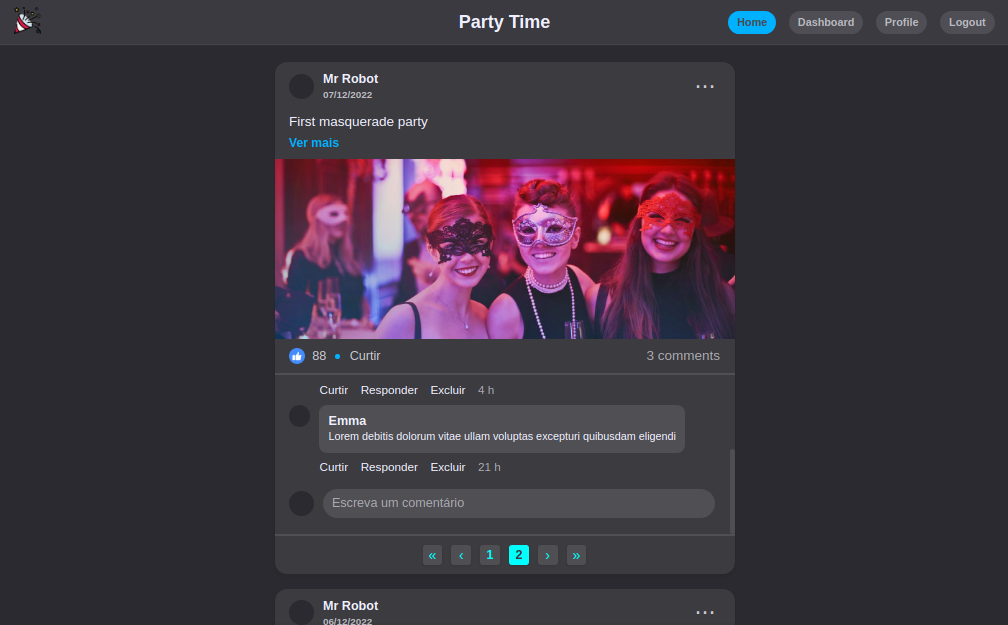
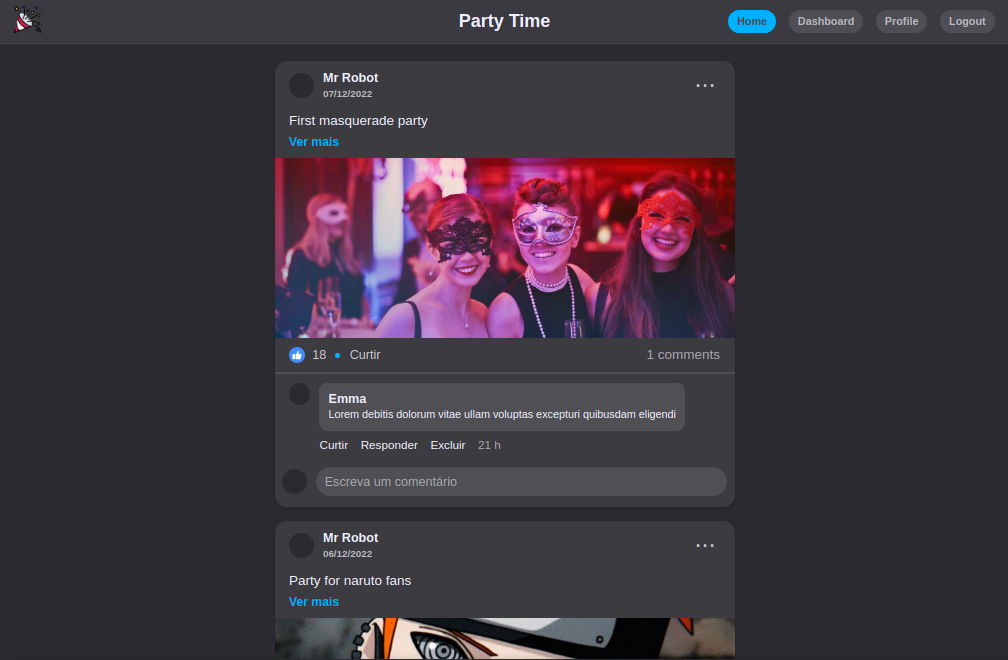
post component improvements and removed comment pagination buttons component

diff --git a/frontend/src/components/publication/Comment.vue b/frontend/src/components/publication/Comment.vue
@@ -1,66 +1,78 @@
 <template>
   <div class="c-comments">
-    <ul class="c-comments__content">
-      <a 
-        v-show="currentsComment.length < comments.length" 
-        class="more-comments" 
-        @click.prevent="seeMoreComments" 
-        href="#">
-        Ver comentários anteriores
-      </a>
-      <li class="c-comment__card" v-for="(comment, index) in currentsComment" :key="index">
+    <ul class="c-comments__content" v-show="comments.length">
+      <div
+        class="c-comments__more_comments"
+        v-show="currentsComment.length < comments.length"
+      >
+        <a @click.prevent="seeMoreComments"> Ver comentários anteriores</a>
+        <p>{{ currentsComment.length }} / {{ comments.length }}</p>
+      </div>
+      <li
+        class="c-comment__card"
+        v-for="(comment, index) in currentsComment"
+        :key="index"
+      >
         <div class="c-comment__card__image"></div>
         <div class="c-comment__card__body">
           <div class="c-comment__card__content">
-            <a>{{comment.name}}</a>
-            <p>{{comment.message}}</p>
+            <a>{{ comment.name }}</a>
+            <p>{{ comment.message }}</p>
           </div>
           <div class="c-comment__card__actions">
             <a href="#">Curtir</a>
             <a href="#">Responder</a>
-            <a href="#" onclick="comments.delete(${i})">Excluir</a>
-            <span>{{comment.date}} h</span>
+            <a href="#" @click.prevent="this.$parent.deleteComment(index)">Excluir</a>
+            <span>{{ comment.date }} h</span>
           </div>
         </div>
       </li>
-      <form @submit.prevent="addComment" class="c-comments__form">
-        <div class="c-comments__form__profile"></div>
-        <div class="c-comments__form__input">
-          <input type="text" name="comment" v-model="comment" id="comment" placeholder="Escreva um comentário">
-        </div>
-      </form>
     </ul>
+    <form @submit.prevent="addComment" class="c-comments__form">
+      <div class="c-comments__form__profile"></div>
+      <div class="c-comments__form__input">
+        <input
+          type="text"
+          name="comment"
+          v-model="comment"
+          id="comment"
+          placeholder="Escreva um comentário"
+        />
+      </div>
+    </form>
   </div>
 </template>
 
 <script>
 export default {
   name: "Comment",
-  data(){
+  data() {
     return {
-      comment: null
-    }
+      comment: null,
+    };
   },
   props: ["comments", "state"],
   computed: {
-    currentsComment(){
-      const { page } = this.state
-      return this.comments.slice(-page)
-    }
+    currentsComment() {
+      const { page } = this.state;
+      console.log(page);
+      return this.comments.slice(-page);
+    },
   },
   methods: {
-    addComment(){
+    addComment() {
       this.$parent.updateComments({
         name: "Mr Robot",
         message: this.comment,
-        date: "13"
-      })
-      this.comment = null
+        date: "13",
+      });
+      this.comment = null;
     },
-    seeMoreComments(){
-      this.$parent.setPage(this.state.page + 2)
-    }
-  }
+    seeMoreComments() {
+      const { page, perPage } = this.state;
+      this.$parent.setPage(page + perPage);
+    },
+  },
 };
 </script>
 
@@ -90,6 +102,18 @@ export default {
 .c-comments__content::-webkit-scrollbar-thumb {
   border-radius: 20px;
   background-color: rgba(255, 255, 255, 0.1);
+}
+
+.c-comments__more_comments {
+  display: flex;
+  align-items: center;
+  justify-content: space-between;
+}
+
+.c-comments__more_comments a,
+.c-comments__more_comments p {
+  font-size: 0.7rem;
+  color: #babac0;
 }
 
 .c-comment__card {
@@ -135,7 +159,7 @@ export default {
   color: #efefff;
   margin-top: 2px;
   /* font-weight: bold; */
-  line-height: .75rem;
+  line-height: 0.75rem;
 }
 
 .c-comment__card__actions {
@@ -147,29 +171,26 @@ export default {
 
 .c-comment__card__actions a {
   color: #efefff;
-  font-size: .65rem;
+  font-size: 0.65rem;
   /* text-decoration: none; */
 }
 
 .c-comment__card__actions span {
   color: #aaaab0;
-  font-size: .65rem;
+  font-size: 0.65rem;
 }
 
 .c-comment__card__actions a:hover {
   text-decoration: underline;
 }
 
-.more-comments {
-  margin-top: .5rem;
-  font-size: .7rem;
-}
-
 .c-comments__form {
   display: flex;
   align-items: center;
   width: 100%;
-  padding: .4rem 0;
+  padding: 0 0.4rem;
+  padding-top: 0.4rem;
+  padding-bottom: 0.6rem;
 }
 
 .c-comments__form__profile {
@@ -183,15 +204,15 @@ export default {
 
 .c-comments__form__input {
   flex: 1;
-  margin-left: .5rem;
+  margin-left: 0.5rem;
 }
 
 .c-comments__form__input input {
   width: 100%;
   height: 1.6rem;
   border-radius: 50px;
-  padding: 0 .5rem;
-  font-size: .7rem;
+  padding: 0 0.5rem;
+  font-size: 0.7rem;
   color: #efefff;
   background: rgba(255, 255, 255, 0.1);
 }

diff --git a/frontend/src/components/Post.vue b/frontend/src/components/Post.vue
@@ -4,11 +4,6 @@
     <PostImage :party="party" v-show="party.photos.length" />
     <Body :totalComments="party.comments.length" :likes="state.likes" />
     <Comment :comments="party.comments" :state="state" />
-    <PageButtons
-      v-show="party.comments.length"
-      :state="state"
-      :key="controllerButtons"
-    />
   </li>
 </template>
 
@@ -17,20 +12,16 @@ import Header from "./publication/Header";
 import PostImage from "./publication/PostImage";
 import Body from "./publication/Body";
 import Comment from "./publication/Comment";
-import PageButtons from "./publication/PageButtons";
 
 export default {
   name: "Post",
   data() {
     return {
       state: {
-        page: 1,
+        page: 2,
         perPage: 2,
-        totalPages: 0,
-        nButtons: 0,
-        likes: 88,
+        likes: 18,
       },
-      controllerButtons: 0,
     };
   },
   props: ["party"],
@@ -43,29 +34,17 @@ export default {
     },
     updateComments(comment) {
       this.party.comments.push(comment);
-
-      const totalPages = Math.ceil(this.party.comments.length / this.state.perPage);
-      this.state.totalPages = totalPages
-      this.state.page = totalPages
-      this.state.nButtons = totalPages < 5 ? totalPages : 5;
-      
-      this.controllerButtons++;
     },
+    deleteComment(index){
+      this.party.comments.splice(index, 1)
+    }
   },
   components: {
     Header,
     PostImage,
     Body,
     Comment,
-    PageButtons,
-  },
-  mounted() {
-    const totalPages = Math.ceil(this.party.comments.length / this.state.perPage);
-    this.state.totalPages = totalPages
-    this.state.page = totalPages
-    this.state.nButtons = totalPages < 5 ? totalPages : 5;
-    this.controllerButtons++;
-  },
+  }
 };
 </script>
 
@@ -74,10 +53,10 @@ export default {
   --_padding-h: 0.8rem;
   width: 80%;
   margin: 0 auto;
-  margin-top: .2rem;
-  margin-bottom: .8rem;
+  margin-top: 0.2rem;
+  margin-bottom: 0.8rem;
   max-width: 460px;
-  background: rgba(255, 255, 255, .08);
+  background: rgba(255, 255, 255, 0.08);
   border-radius: 12px;
   box-shadow: 0 2px 2px 1px rgba(0, 0, 0, 0.05);
   list-style: none;
